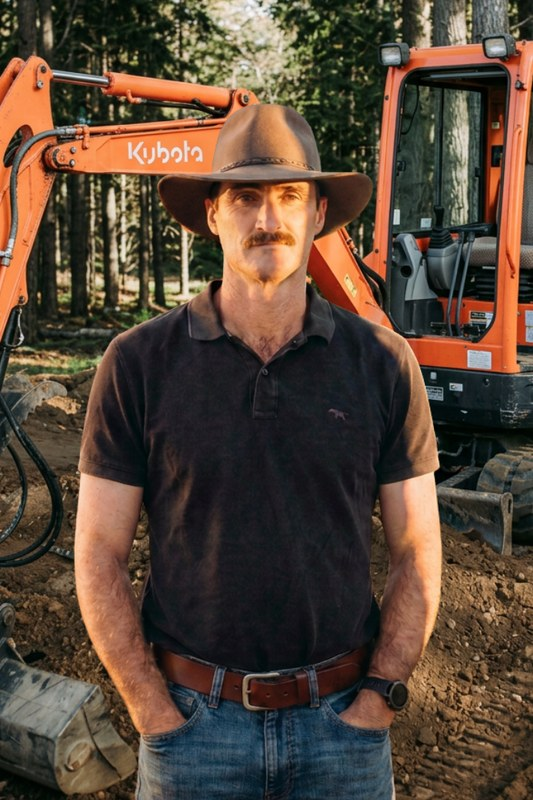
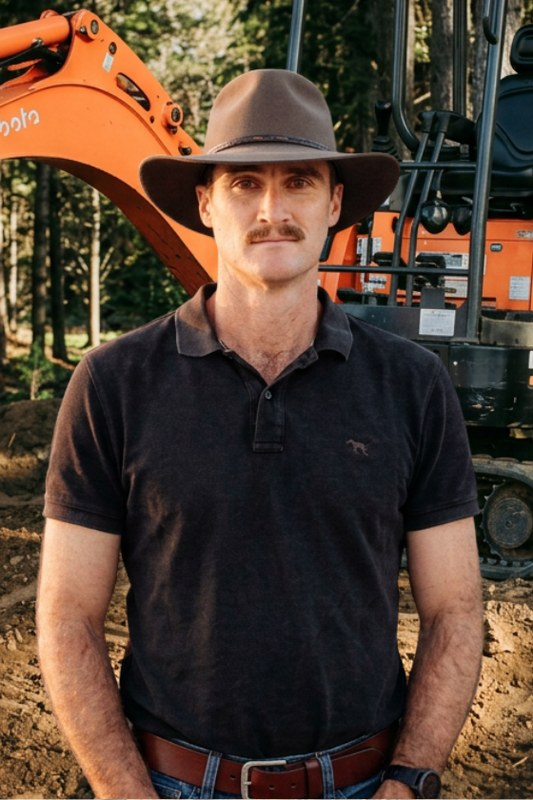
Homepage: swap hero to Mammoth fisheye + revert Lukas team card to original source
Hero: replaced the temporary margaret-river fallback with the
original iconic Mammoth fisheye shot of Sam in front of the crowd
(assets/general/hero-mammoth.jpg, 2000x1333, 937KB). This is the
shot the old WordPress site was using before the cutover.

Lukas team card: re-cropped from website/lukas edited.png (the
left-side-lit source) instead of the right-side-lit version.
Auto-trimmed the ~260px white margin at the bottom before doing
the standard 240px top-bias crop, so hat lines up with Dave/Sam
and no white area sneaks into the final 533x800 frame.

diff --git a/index.html b/index.html
@@ -253,7 +253,7 @@
         .hero-bg {
             position: absolute;
             inset: 0;
-            background: url('assets/projects/margaret-river/hero.jpg') center center / cover no-repeat;
+            background: url('assets/general/hero-mammoth.jpg') center center / cover no-repeat;
             transform: scale(1.1);
             transition: transform 0.1s linear;
         }